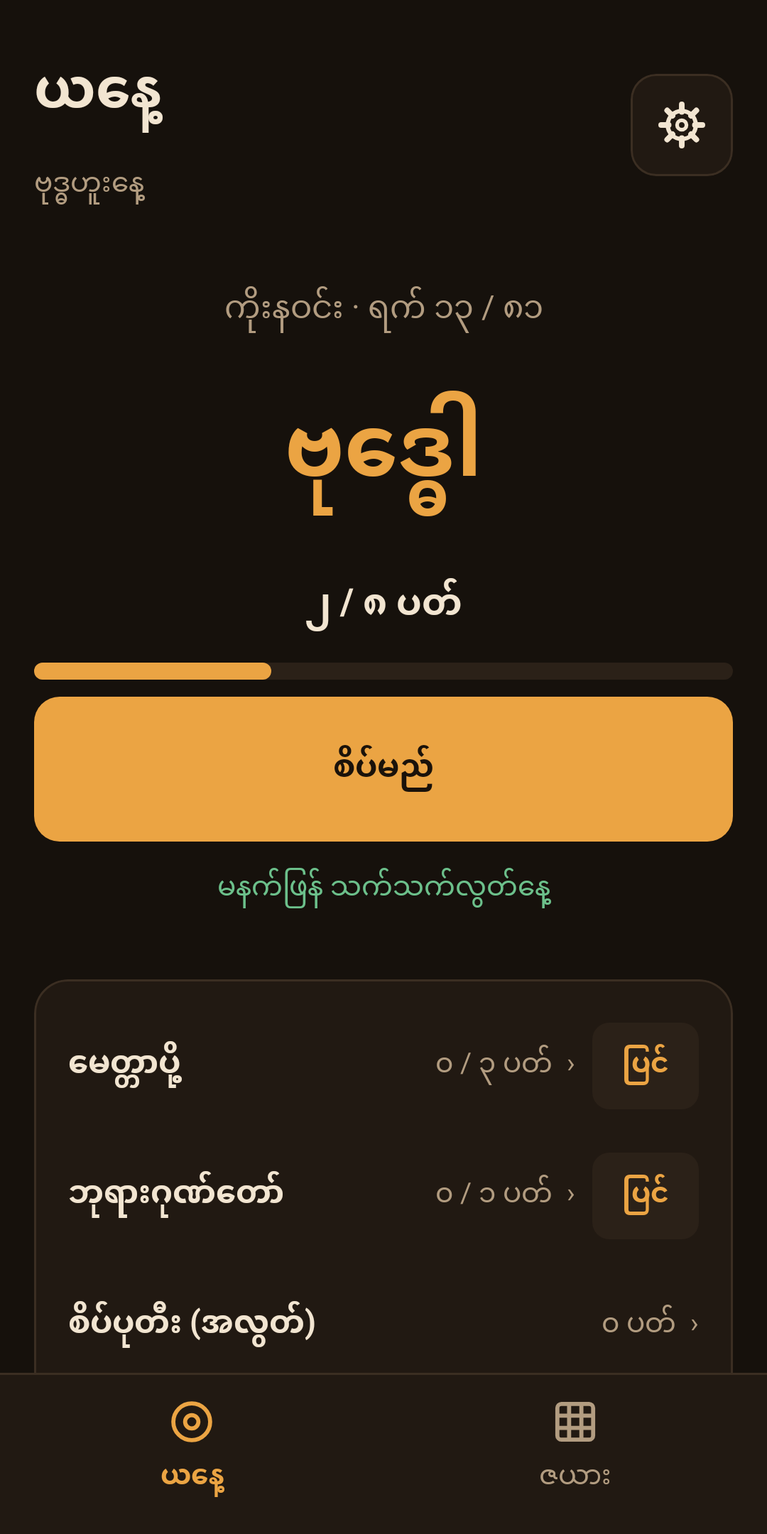
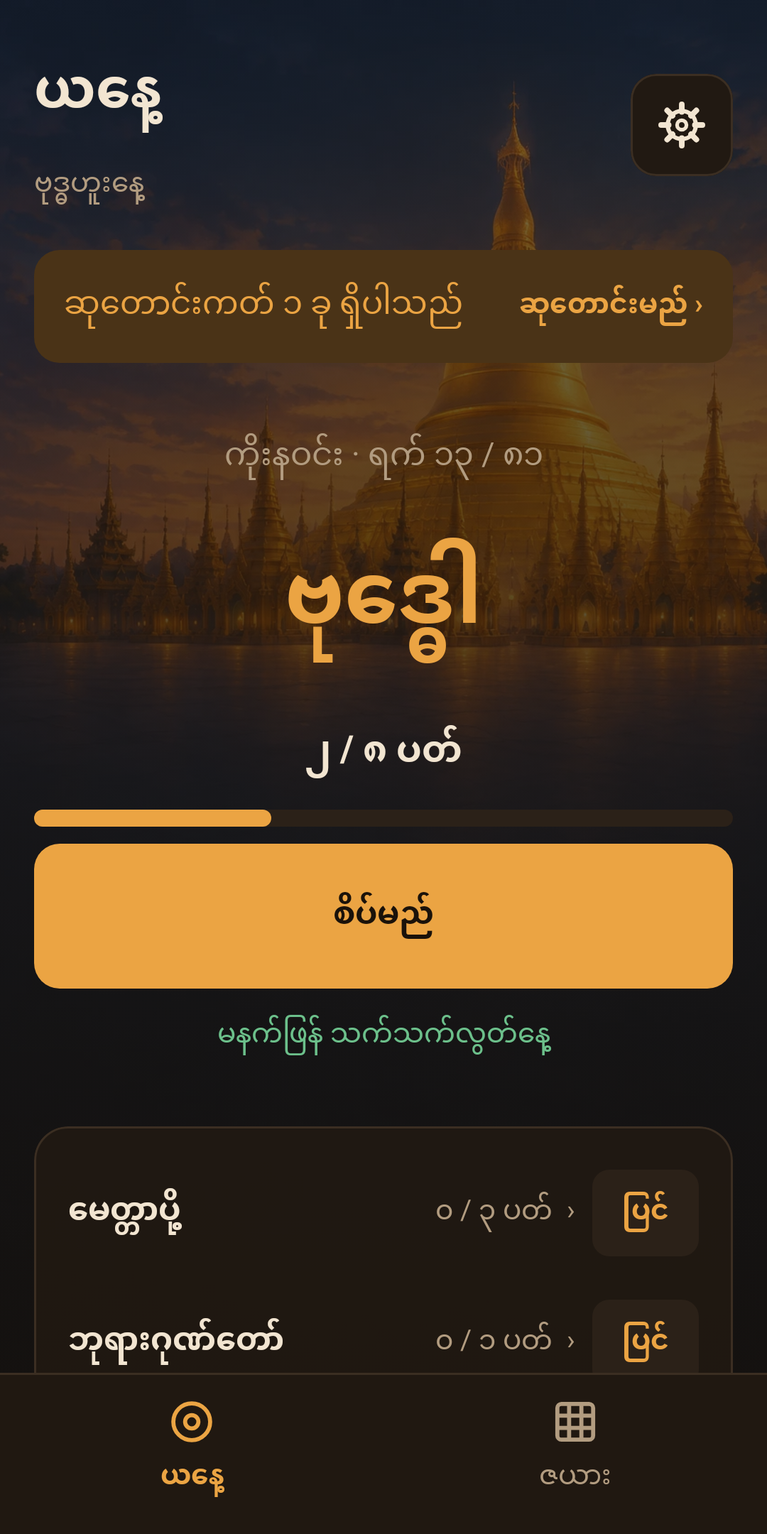
Prepare 1.1.0 for Play
New store screenshots showing the themes and wish cards, updated
Myanmar and English descriptions, 1.1.0 release notes, and a Play
Console update guide (store/update-1.1.0.html). The release bundle
builds and passes release lint; it still needs the upload key to sign.

Claude-Session: https://claude.ai/code/session_019Df7fuS7CeBg389ACv6fJ5

diff --git a/store/update-1.1.0.html b/store/update-1.1.0.html
@@ -1,0 +1,148 @@
+<title>စိပ်ပုတီး 1.1.0 Update</title>
+<link rel="stylesheet" href="https://fonts.googleapis.com/css2?family=Padauk:wght@400;700&family=Fraunces:opsz,wght@9..144,600&family=Source+Sans+3:wght@400;600&display=swap">
+<style>
+/* Layout: one reading column of numbered Play Console steps, copy-ready text blocks inline */
+:root {
+  --bg:#f6efe4; --panel:#fffaf2; --fg:#2a1d12; --muted:#7a6550; --line:#e3d4bf; --accent:#a8661c; --soft:#f1e0c4; --ok:#2f7a4c;
+  --display:"Fraunces", Georgia, serif; --body:"Source Sans 3","Padauk",system-ui,sans-serif; --mm:"Padauk","Myanmar Text",system-ui,sans-serif;
+}
+@media (prefers-color-scheme: dark) { :root:not([data-theme="light"]) { --bg:#16110c; --panel:#211912; --fg:#f2e5d1; --muted:#b29c80; --line:#3b2e22; --accent:#eba443; --soft:#4a3317; --ok:#6cc08b; color-scheme:dark } }
+:root[data-theme="dark"] { --bg:#16110c; --panel:#211912; --fg:#f2e5d1; --muted:#b29c80; --line:#3b2e22; --accent:#eba443; --soft:#4a3317; --ok:#6cc08b; color-scheme:dark }
+body { background:var(--bg); color:var(--fg); font:16px/1.6 var(--body); padding:32px 16px 64px }
+main { max-width:760px; margin:0 auto; display:flex; flex-direction:column; gap:40px }
+h1 { font:600 2.3rem/1.15 var(--display); margin:0; text-wrap:balance }
+h2 { font:600 1.4rem/1.3 var(--display); margin:0 0 12px; display:flex; gap:12px; align-items:baseline }
+h2 .n { color:var(--accent); font-variant-numeric:tabular-nums }
+p, li { max-width:65ch }
+.mm, pre { font-family:var(--mm) }
+.hero { display:grid; grid-template-columns:96px 1fr; gap:20px; align-items:center }
+.hero img { border-radius:22px; width:96px }
+.sub { color:var(--muted); margin:6px 0 0 }
+.feature { border-radius:10px; border:1px solid var(--line) }
+.shots { display:grid; grid-template-columns:repeat(4,1fr); gap:10px }
+.shots img { border-radius:8px; border:1px solid var(--line) }
+@media (max-width:520px) { .shots { grid-template-columns:repeat(2,1fr) } .hero { grid-template-columns:64px 1fr } .hero img { width:64px; border-radius:15px } }
+.field { background:var(--panel); border:1px solid var(--line); border-radius:10px; margin:12px 0; min-width:0 }
+.fh { display:flex; gap:10px; align-items:center; padding:8px 12px; border-bottom:1px solid var(--line) }
+.lbl { font-weight:600; flex:1 } .cnt { color:var(--muted); font-size:.85rem; font-variant-numeric:tabular-nums }
+pre { margin:0; padding:12px; white-space:pre-wrap; word-break:break-word; font-size:1rem; line-height:1.8 }
+pre.tall { max-height:300px; overflow:auto }
+button.cp { font:600 .85rem var(--body); background:var(--accent); color:var(--bg); border:0; border-radius:6px; padding:5px 12px; cursor:pointer }
+button.cp:focus-visible { outline:2px solid var(--fg); outline-offset:2px }
+.tw { overflow-x:auto }
+table { border-collapse:collapse; width:100%; font-size:.95rem }
+td { border-top:1px solid var(--line); padding:8px 10px 8px 0; vertical-align:top }
+td.ans { font-weight:600; color:var(--ok); white-space:nowrap } td.note { color:var(--muted) }
+.box { background:var(--soft); border-radius:10px; padding:14px 16px }
+.box p { margin:0 }
+ol, ul { padding-left:1.3em; margin:0 } li { margin:4px 0 }
+code { background:var(--soft); padding:1px 5px; border-radius:4px; font-size:.9em }
+a { color:var(--accent) }
+</style>
+<main>
+<header class="hero"><img src="icon-512.png" alt="စိပ်ပုတီး app icon">
+<div><h1>Updating <span class="mm">စိပ်ပုတီး</span> to 1.1.0</h1>
+<p class="sub">Version 1.1.0 (build 12) · same package, same upload key · no new permissions.</p></div></header>
+
+<section><h2><span class="n">1</span>Try the release build first</h2>
+<p>Install <code>satepadee-1.1.0-release-test.apk</code> on a phone that does <b>not</b> have the Play version (for example the Mi Pad), because it is signed with a test key. It is the optimised build that goes to Play. Check:</p>
+<ul><li>A background picture on Home, the counter, the chart and Settings.</li>
+<li>Count a round, then <b class="mm">သိမ်းပြီး ထွက်မည်</b>.</li>
+<li>Finish a stage (or use a test phone where one is finished), make a wish card, share it to Viber or Messenger, and save it to Photos.</li>
+<li>The reminder at a time one minute ahead.</li></ul></section>
+
+<section><h2><span class="n">2</span>Send me the upload key</h2>
+<div class="box"><p>Upload <code>satepadee-upload-key.zip</code> (the zip I sent with version 1.0.0) into the chat. I sign <code>satepadee-1.1.0.aab</code> with it and send it back. Without it Play will refuse the update.</p></div></section>
+
+<section><h2><span class="n">3</span>Upload the update</h2>
+<ol>
+<li>Play Console → <b>Test and release → Production</b> → <b>Create new release</b>.</li>
+<li>Upload <code>satepadee-1.1.0.aab</code>. The release name should show <b>12 (1.1.0)</b>.</li>
+<li>Paste the release notes:</li></ol>
+<div class="field"><div class="fh"><span class="lbl">Release notes (my-MM)</span><span class="cnt">238 / 500</span>
+<button type="button" class="cp" data-k="notes_my_1_1_0">Copy</button></div>
+<pre id="notes_my_1_1_0" class="">ဗားရှင်း ၁.၁.၀ — နောက်ခံပုံ ၆ မျိုး (ရွှေတိဂုံ၊ ကျိုက်ထီးရိုး၊ ပုဂံ စသည်)၊ ကိုးနဝင်း အဆင့်ပြီးတိုင်း ရသော ဆုတောင်းကတ် (မျှဝေနိုင်)၊ &quot;သိမ်းပြီး ထွက်မည်&quot; ခလုတ်၊ ရက် ၈၁ ပြည့်ပြီးနောက်လည်း နေ့စဉ် သတိပေးချက်၊ ယနေ့ စိပ်ပြီးပါက သတိမပေးတော့ခြင်း။</pre></div>
+<div class="field"><div class="fh"><span class="lbl">Release notes (en-US, if you added English)</span><span class="cnt">218 / 500</span>
+<button type="button" class="cp" data-k="notes_en_1_1_0">Copy</button></div>
+<pre id="notes_en_1_1_0" class="">Version 1.1.0: six background pictures (Shwedagon, Kyaiktiyo, Bagan and more) on every page; a wish card earned after each Kozawin stage that you can share; a Save and exit button; quieter reminders once today is done.</pre></div>
+<ol start="4"><li><b>Next → Save → Send for review</b>. Updates are usually reviewed within a few hours to a couple of days, then reach users automatically.</li></ol>
+<p class="sub">Want a safety step first? Create the same release on <b>Internal testing</b>, install it from Play on your phone, then use <b>Promote release → Production</b>.</p></section>
+
+<section><h2><span class="n">4</span>Refresh the store listing</h2>
+<p>Grow users → Store presence → <b>Main store listing</b>.</p>
+<div class="field"><div class="fh"><span class="lbl">Full description (my-MM)</span><span class="cnt">1746 / 4000</span>
+<button type="button" class="cp" data-k="full_my">Copy</button></div>
+<pre id="full_my" class="tall">စိပ်ပုတီး သည် မြန်မာဗုဒ္ဓဘာသာဝင်များအတွက် ရိုးရှင်းသော ပုတီးစိပ် ရေတွက်စက် ဖြစ်ပါသည်။
+
+◆ ကိုးနဝင်း
+• ရက် ၈၁ ရက်၊ အဆင့် ၉ ဆင့် ဇယားအတိုင်း ယနေ့ စိပ်ရမည့် ဂုဏ်တော်နှင့် ပတ်ရေကို အလိုအလျောက် ပြပေးပါသည်။
+• တနင်္လာနေ့မှ စတင်ပြီး သက်သက်လွတ်နေ့များကို ကြိုတင် သတိပေးပါသည်။
+• အဆင့်တိုင်း၏ အစတွင် ဆုတောင်းချက် ရေးထားနိုင်ပြီး အဆင့်ပြီးတိုင်း အကျိုးတရားကို ပြပေးပါသည်။
+• ရက်ကျော်သွားပါက သတိပေးပြီး ဆက်လုပ်မည် သို့မဟုတ် ပြန်စမည်ကို ရွေးနိုင်ပါသည်။
+• ဂုဏ်တော် ၉ ပါး၏ အဓိပ္ပာယ်နှင့် စည်းကမ်းများကို app ထဲတွင် ဖတ်နိုင်ပါသည်။
+
+◆ ကိုယ်ပိုင် ပုတီး
+• မေတ္တာပို့၊ ဘုရားဂုဏ်တော် စသည်ဖြင့် ကိုယ်တိုင် ထည့်နိုင်၊ ပြင်နိုင်ပါသည်။
+• တစ်ပတ်လျှင် လုံးရေ၊ နေ့စဉ် ပတ်ရေ နှင့် သတိပေးချိန်ကို သတ်မှတ်နိုင်ပါသည်။
+• စိပ်ပုတီး (အလွတ်) ဖြင့် လွတ်လပ်စွာ ရေတွက်နိုင်ပြီး လိုသည့်အခါ သုညမှ ပြန်စနိုင်ပါသည်။
+
+◆ ပုတီးစိပ်ရသည့် ခံစားချက်
+• မျက်နှာပြင်ကို တို့၍ သို့မဟုတ် ပွတ်ဆွဲ၍ ရေတွက်နိုင်ပါသည်။ ပွတ်ဆွဲတစ်ကြိမ်လျှင် ပုတီးတစ်လုံးသာ ရေတွက်ပါသည်။
+• ပုတီးလုံးများ လက်ထဲတွင် လှိမ့်သွားသကဲ့သို့ မြင်ရပြီး တစ်လုံးချင်း တုန်ခါမှုဖြင့် သိနိုင်ပါသည်။
+• တစ်ပတ်ပြည့်တိုင်း ရှည်သော တုန်ခါမှု သို့မဟုတ် ခေါင်းလောင်း၊ ကြေးစည် အသံဖြင့် အချက်ပြနိုင်ပါသည်။
+• နေ့နံအလိုက် သင့်တော်သော သစ်သားပုတီး (ပိတောက်၊ ကံ့ကော်၊ သီး၊ ထိန် စသည်) ကို ရွေးနိုင်ပါသည်။
+
+◆ နောက်ခံပုံနှင့် ဆုတောင်းကတ်
+• ရွှေတိဂုံ၊ ကျိုက်ထီးရိုး၊ ပုဂံ၊ ဘုရားရှင်၊ တောင်ပေါ်ကျောင်း၊ ဗောဓိပင် နောက်ခံပုံများကို စာမျက်နှာတိုင်းတွင် ရွေးနိုင်ပါသည်။
+• ကိုးနဝင်း အဆင့်တစ်ခု ပြီးတိုင်း ဆုတောင်းကတ် တစ်ခု ရပါသည်။ မိမိကိုယ်တိုင် သို့မဟုတ် မိဘ၊ ချစ်ရသူအတွက် တစ်ကြိမ်သာ ဆုတောင်းပြီး Facebook၊ Viber တို့တွင် မျှဝေနိုင်ပါသည်။
+• ရက် ၈၁ ရက် ပြည့်စုံပါက ရွှေဘောင်ပါ အထူး ဆုတောင်းကတ် ရပါသည်။
+
+◆ ရိုးရှင်းပြီး လုံခြုံသည်
+• မြန်မာဘာသာ သီးသန့်။
+• အင်တာနက် မလို၊ အကောင့် မလို၊ ကြော်ငြာ မပါ။
+• အချက်အလက်အားလုံးကို သင့်ဖုန်းထဲတွင်သာ သိမ်းပါသည်။
+
+သာဓု သာဓု သာဓု။</pre></div>
+<div class="field"><div class="fh"><span class="lbl">Full description (en-US)</span><span class="cnt">1287 / 4000</span>
+<button type="button" class="cp" data-k="full_en">Copy</button></div>
+<pre id="full_en" class="tall">Sate Pa Dee (စိပ်ပုတီး) is a simple prayer-bead counter for Myanmar Buddhists. The app is in Myanmar language.
+
+Kozawin (ကိုးနဝင်း)
+• Follows the 81-day, 9-stage chart and shows today&#x27;s virtue and number of rounds.
+• Starts on a Monday and reminds you of vegetarian days.
+• Write a wish at the start of each stage and read its benefit when the stage is done.
+• Warns about missed days and lets you choose how to continue.
+
+Your own recitations
+• Add and edit your own recitations with beads per round, daily rounds and a reminder time.
+• A free counter for any recitation, with a reset button.
+
+Counting
+• Count by tapping or swiping. One swipe counts exactly one bead.
+• Close-up rolling wooden beads with a vibration for each bead.
+• At the end of each round: a long vibration, a temple bell or a gong, as you choose.
+• Choose a wood that suits your birth day.
+
+Backgrounds and wish cards
+• Choose a background for every page: Shwedagon, Kyaiktiyo, Bagan, the Buddha, a hill monastery or the bodhi tree.
+• Each finished Kozawin stage earns one wish card. Make the wish once, for yourself or a loved one, then share it on Facebook or Viber.
+• Finishing all 81 days earns a special gold-framed card.
+
+Private and offline
+• No internet, no account, no ads. Everything stays on your phone.</pre></div>
+<p><b>Phone screenshots:</b> remove the old ones and upload the 8 new <code>phone-*.png</code> in order. <b>Tablet:</b> replace with the 2 new <code>tablet-*.png</code>.</p>
+<div class="shots"><img src="phone-1-home.png" alt="Home with Shwedagon background"><img src="phone-2-counter.png" alt="Counter with Kyaiktiyo background"><img src="phone-3-wish-card.png" alt="A made wish card"><img src="phone-4-chart.png" alt="Chart and wish card collection"></div>
+<div class="box"><p><b>AI label:</b> the new screenshots show the Canva AI background pictures. On the listing's <b>AI asset declaration</b> step, choose <b>Label assets as created or edited using AI</b> and mark the screenshots that show a picture (all except <code>phone-7-birthday</code>). The icon and feature graphic are unchanged and drawn by code.</p></div></section>
+
+<section><h2><span class="n">5</span>Nothing else changes</h2>
+<ul><li><b>Data safety:</b> still "no data collected or shared". Wish cards stay on the phone and are only shared when the user taps Share.</li>
+<li><b>Permissions:</b> the same four as 1.0.0.</li>
+<li><b>Content rating, target audience, ads, privacy policy:</b> unchanged.</li></ul></section>
+</main>
+<script>
+document.querySelectorAll("button.cp").forEach(b => b.addEventListener("click", () => {
+  const el = document.getElementById(b.dataset.k), done = () => { b.textContent = "Copied"; setTimeout(() => b.textContent = "Copy", 1500) };
+  const select = () => { const r = document.createRange(); r.selectNodeContents(el); const s = getSelection(); s.removeAllRanges(); s.addRange(r); b.textContent = "Selected, press copy" };
+  try { navigator.clipboard.writeText(el.textContent).then(done, select) } catch (e) { select() }
+}));
+</script>

diff --git a/android/app/src/test/java/com/satepadee/app/ui/StoreAssetsTest.kt b/android/app/src/test/java/com/satepadee/app/ui/StoreAssetsTest.kt
@@ -64,7 +64,7 @@ class StoreAssetsTest {
             .putLong("start", Days.today() - 12).putString("done", (0..11).joinToString(","))
             .putInt("progressDay", 12).putInt("progressBeads", 63).putInt("progressRounds", 2)
             .putString("wishes", """{"0":"မိသားစု ကျန်းမာ ချမ်းသာပါစေ","1":"စီးပွားရေး အဆင်ပြေပါစေ"}""")
-            .putString("birthDay", "thu").putBoolean("setupDone", true).putBoolean("reminderOn", true)
+            .putString("birthDay", "thu").putBoolean("setupDone", true).putBoolean("reminderOn", true).putLong("runId", 5)
             .putString(
                 "recitations",
                 """[{"id":"r1","name":"မေတ္တာပို့","text":"သဗ္ဗေ သတ္တာ အဝေရာ ဟောန္တု","perRound":108,"dailyRounds":3},
@@ -96,25 +96,44 @@ class StoreAssetsTest {
 
     @Test fun featureGraphic() { val w = wood(); art("feature-1024x500", 1024, 500) { FeatureArt(w) } }
 
+    /** A page as the app shows it, with the chosen background picture behind it. */
+    private fun themed(name: String, themeId: String?, content: @Composable () -> Unit) = screen(name) {
+        androidx.compose.runtime.CompositionLocalProvider(LocalBackgroundId provides themeId) {
+            Box(Modifier.fillMaxSize().pageBackground()) { content() }
+        }
+    }
+
+    // Store order: themed home with a wish card waiting, themed counter, a made wish card, the chart with the
+    // card collection, stage finished, settings with the background picker, birth-day wood, own ပုတီး.
     @Config(qualifiers = "w360dp-h720dp-xxhdpi")
-    @Test fun phoneHome() { val m = model(); screen("phone-1-home") { AppShell(m) } }
+    @Test fun phoneHome() { val m = model(); m.setTheme("shwedagon"); screen("phone-1-home") { AppShell(m) } }
     @Config(qualifiers = "w360dp-h720dp-xxhdpi")
-    @Test fun phoneCounter() { val m = model(); screen("phone-2-counter") { CounterScreen(m, Target.Kozawin) {} } }
+    @Test fun phoneCounter() { val m = model(); m.setTheme("kyaiktiyo"); screen("phone-2-counter") { CounterScreen(m, Target.Kozawin) {} } }
     @Config(qualifiers = "w360dp-h720dp-xxhdpi")
-    @Test fun phoneOnboarding() { val m = model(); screen("phone-3-birthday") { Onboarding(m) {} } }
+    @Test fun phoneWishCard() {
+        val m = model()
+        m.sealWish(0, forSelf = false, name = "အမေ", text = "ကျန်းမာချမ်းသာပါစေ", backgroundId = "shwedagon")
+        themed("phone-3-wish-card", "bagan") { WishCardScreen(m, 5, 0) {} }
+    }
     @Config(qualifiers = "w360dp-h720dp-xxhdpi")
-    @Test fun phoneFinished() { val m = model(); screen("phone-4-stage-done") { FinishedScreen(m, CountResult.StageDone, 8) {} } }
+    @Test fun phoneChart() {
+        val m = model()
+        m.sealWish(0, forSelf = false, name = "အမေ", text = "ကျန်းမာချမ်းသာပါစေ", backgroundId = "shwedagon")
+        themed("phone-4-chart", "bodhi") { ChartScreen(m) }
+    }
     @Config(qualifiers = "w360dp-h720dp-xxhdpi")
-    @Test fun phoneChart() { val m = model(); screen("phone-5-chart") { ChartScreen(m) } }
+    @Test fun phoneFinished() { val m = model(); themed("phone-5-stage-done", "bagan") { FinishedScreen(m, CountResult.StageDone, 8) {} } }
     @Config(qualifiers = "w360dp-h720dp-xxhdpi")
-    @Test fun phoneSettings() { val m = model(); screen("phone-6-settings") { SettingsScreen(m, onAbout = {}) {} } }
+    @Test fun phoneSettings() { val m = model(); m.setTheme("buddha"); themed("phone-6-settings", "buddha") { SettingsScreen(m, onAbout = {}) {} } }
     @Config(qualifiers = "w360dp-h720dp-xxhdpi")
-    @Test fun phoneAdd() { val m = model(); screen("phone-7-add") { RecitationForm(m, editId = "r1") {} } }
+    @Test fun phoneOnboarding() { val m = model(); screen("phone-7-birthday") { Onboarding(m) {} } }
+    @Config(qualifiers = "w360dp-h720dp-xxhdpi")
+    @Test fun phoneAdd() { val m = model(); themed("phone-8-add", "monastery") { RecitationForm(m, editId = "r1") {} } }
 
     @Config(qualifiers = "w800dp-h1280dp-xhdpi")
-    @Test fun tabletHome() { val m = model(); screen("tablet-1-home") { AppShell(m) } }
+    @Test fun tabletHome() { val m = model(); m.setTheme("bagan"); screen("tablet-1-home") { AppShell(m) } }
     @Config(qualifiers = "w800dp-h1280dp-xhdpi")
-    @Test fun tabletCounter() { val m = model(); screen("tablet-2-counter") { CounterScreen(m, Target.Kozawin) {} } }
+    @Test fun tabletCounter() { val m = model(); m.setTheme("shwedagon"); screen("tablet-2-counter") { CounterScreen(m, Target.Kozawin) {} } }
 }
 
 /** A closed ring of beads with the larger guru bead and tassel at the bottom. */

diff --git a/tools/update_guide.py b/tools/update_guide.py
@@ -1,0 +1,66 @@
+"""Builds store/update-1.1.0.html (the Play Console steps for the 1.1.0 update) from store/listing.json."""
+import html, json
+from pathlib import Path
+
+S = Path(__file__).resolve().parent.parent / "store"
+d = json.loads((S / "listing.json").read_text())
+style = (S / "upload-guide.html").read_text()
+style = style[style.index("<style>"):style.index("</style>") + 8]
+
+def copy(label, key, limit, tall=False):
+    v = d[key]
+    return f'''<div class="field"><div class="fh"><span class="lbl">{label}</span><span class="cnt">{len(v)} / {limit}</span>
+<button type="button" class="cp" data-k="{key}">Copy</button></div>
+<pre id="{key}" class="{'tall' if tall else ''}">{html.escape(v)}</pre></div>'''
+
+page = f'''<title>စိပ်ပုတီး 1.1.0 Update</title>
+<link rel="stylesheet" href="https://fonts.googleapis.com/css2?family=Padauk:wght@400;700&family=Fraunces:opsz,wght@9..144,600&family=Source+Sans+3:wght@400;600&display=swap">
+{style}
+<main>
+<header class="hero"><img src="icon-512.png" alt="စိပ်ပုတီး app icon">
+<div><h1>Updating <span class="mm">စိပ်ပုတီး</span> to 1.1.0</h1>
+<p class="sub">Version 1.1.0 (build 12) · same package, same upload key · no new permissions.</p></div></header>
+
+<section><h2><span class="n">1</span>Try the release build first</h2>
+<p>Install <code>satepadee-1.1.0-release-test.apk</code> on a phone that does <b>not</b> have the Play version (for example the Mi Pad), because it is signed with a test key. It is the optimised build that goes to Play. Check:</p>
+<ul><li>A background picture on Home, the counter, the chart and Settings.</li>
+<li>Count a round, then <b class="mm">သိမ်းပြီး ထွက်မည်</b>.</li>
+<li>Finish a stage (or use a test phone where one is finished), make a wish card, share it to Viber or Messenger, and save it to Photos.</li>
+<li>The reminder at a time one minute ahead.</li></ul></section>
+
+<section><h2><span class="n">2</span>Send me the upload key</h2>
+<div class="box"><p>Upload <code>satepadee-upload-key.zip</code> (the zip I sent with version 1.0.0) into the chat. I sign <code>satepadee-1.1.0.aab</code> with it and send it back. Without it Play will refuse the update.</p></div></section>
+
+<section><h2><span class="n">3</span>Upload the update</h2>
+<ol>
+<li>Play Console → <b>Test and release → Production</b> → <b>Create new release</b>.</li>
+<li>Upload <code>satepadee-1.1.0.aab</code>. The release name should show <b>12 (1.1.0)</b>.</li>
+<li>Paste the release notes:</li></ol>
+{copy("Release notes (my-MM)", "notes_my_1_1_0", 500)}
+{copy("Release notes (en-US, if you added English)", "notes_en_1_1_0", 500)}
+<ol start="4"><li><b>Next → Save → Send for review</b>. Updates are usually reviewed within a few hours to a couple of days, then reach users automatically.</li></ol>
+<p class="sub">Want a safety step first? Create the same release on <b>Internal testing</b>, install it from Play on your phone, then use <b>Promote release → Production</b>.</p></section>
+
+<section><h2><span class="n">4</span>Refresh the store listing</h2>
+<p>Grow users → Store presence → <b>Main store listing</b>.</p>
+{copy("Full description (my-MM)", "full_my", 4000, tall=True)}
+{copy("Full description (en-US)", "full_en", 4000, tall=True)}
+<p><b>Phone screenshots:</b> remove the old ones and upload the 8 new <code>phone-*.png</code> in order. <b>Tablet:</b> replace with the 2 new <code>tablet-*.png</code>.</p>
+<div class="shots"><img src="phone-1-home.png" alt="Home with Shwedagon background"><img src="phone-2-counter.png" alt="Counter with Kyaiktiyo background"><img src="phone-3-wish-card.png" alt="A made wish card"><img src="phone-4-chart.png" alt="Chart and wish card collection"></div>
+<div class="box"><p><b>AI label:</b> the new screenshots show the Canva AI background pictures. On the listing's <b>AI asset declaration</b> step, choose <b>Label assets as created or edited using AI</b> and mark the screenshots that show a picture (all except <code>phone-7-birthday</code>). The icon and feature graphic are unchanged and drawn by code.</p></div></section>
+
+<section><h2><span class="n">5</span>Nothing else changes</h2>
+<ul><li><b>Data safety:</b> still "no data collected or shared". Wish cards stay on the phone and are only shared when the user taps Share.</li>
+<li><b>Permissions:</b> the same four as 1.0.0.</li>
+<li><b>Content rating, target audience, ads, privacy policy:</b> unchanged.</li></ul></section>
+</main>
+<script>
+document.querySelectorAll("button.cp").forEach(b => b.addEventListener("click", () => {{
+  const el = document.getElementById(b.dataset.k), done = () => {{ b.textContent = "Copied"; setTimeout(() => b.textContent = "Copy", 1500) }};
+  const select = () => {{ const r = document.createRange(); r.selectNodeContents(el); const s = getSelection(); s.removeAllRanges(); s.addRange(r); b.textContent = "Selected, press copy" }};
+  try {{ navigator.clipboard.writeText(el.textContent).then(done, select) }} catch (e) {{ select() }}
+}}));
+</script>
+'''
+(S / "update-1.1.0.html").write_text(page)
+print("ok")

diff --git a/docs/PLAN.md b/docs/PLAN.md
@@ -94,7 +94,7 @@ Round / day / stage complete → History → Settings.
 - Figma design: https://www.figma.com/design/kboHMgjsGdaUGQxLkyELks
 - Clickable prototype: https://claude.ai/artifact/N2zqp83giaeKZwEhrx665g
 - Canva mockups: https://canva.link/jjicn7pxz4aj7pw · icon draft: https://canva.link/soxphoh3scakwzi
-- Latest build: 1.0.0 (release for Play, versionCode 11; includes free-counter reset and end-of-round signal) (reminders for own ပုတီး; string through bead holes)
+- Latest build: 1.1.0 (versionCode 12; themes, Save button, wish card rewards; waiting for the upload key to sign) (reminders for own ပုတီး; string through bead holes)
 
 ## Google Play release (1.0.0, versionCode 11)
 - Upload guide: https://claude.ai/artifact/VC71MrJz5Mhj7sAcKBauN6 (source `store/upload-guide.html`, built by `tools/upload_guide.py` from `store/listing.json`).
